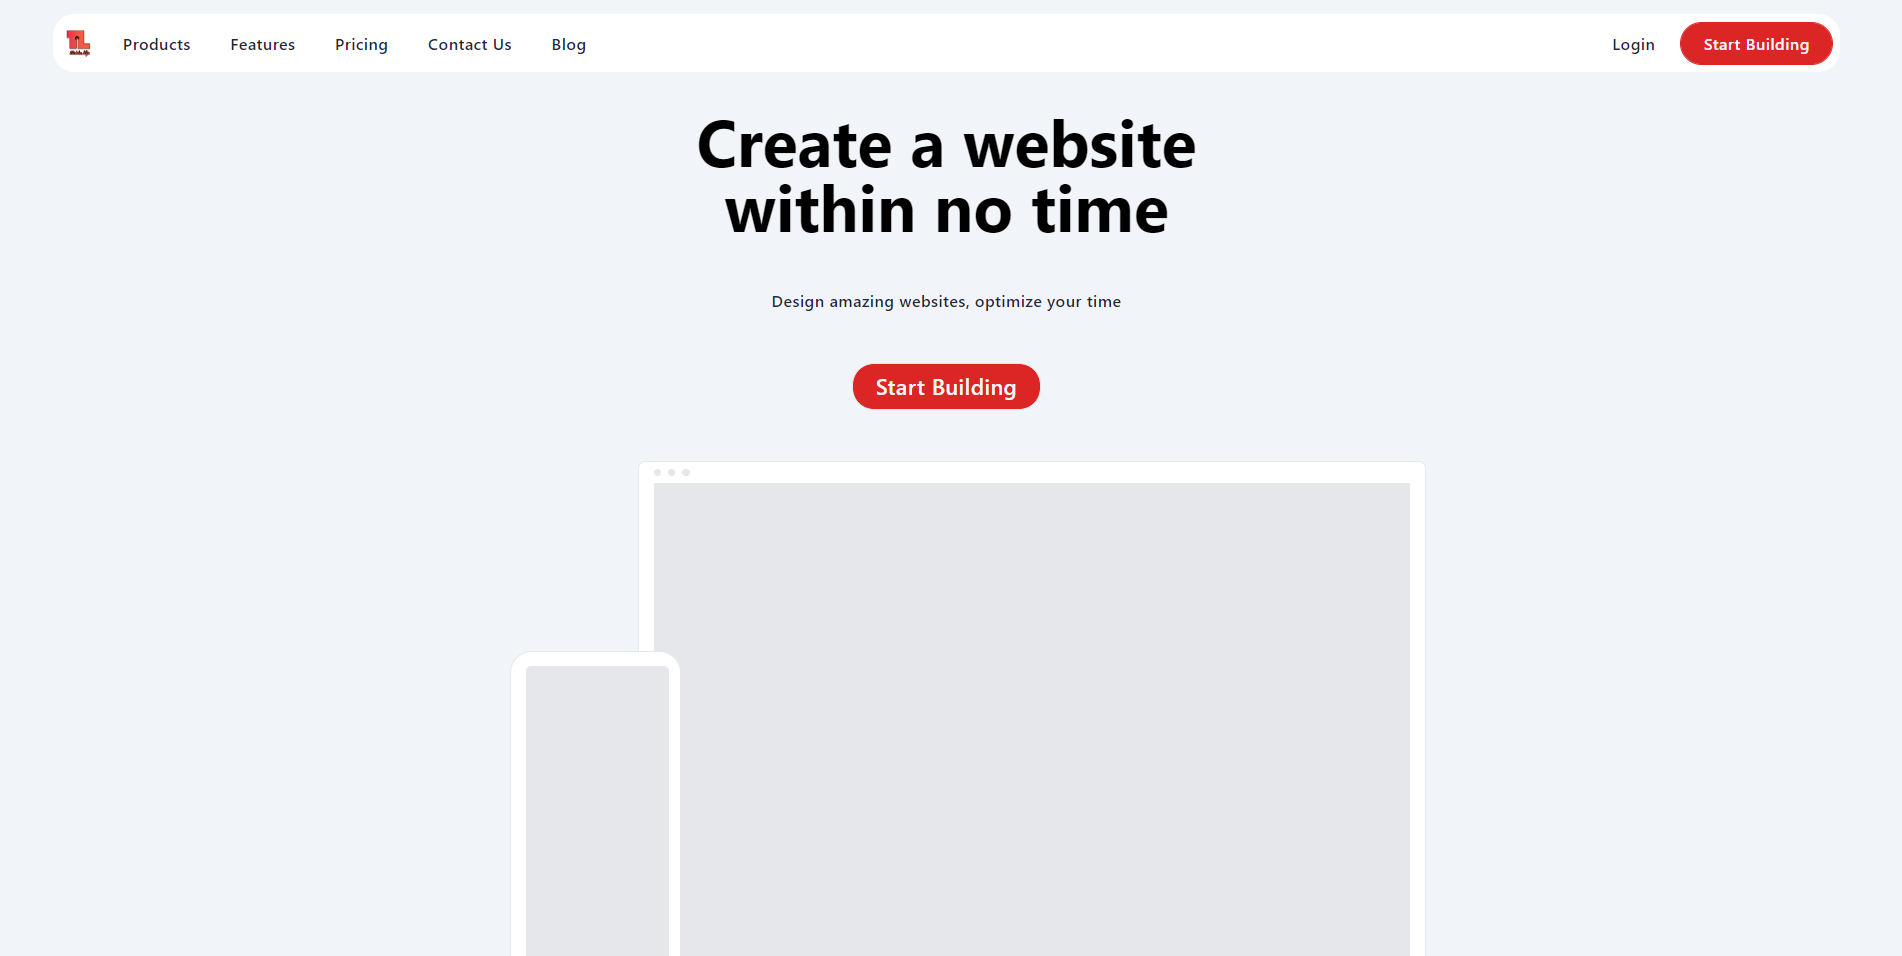
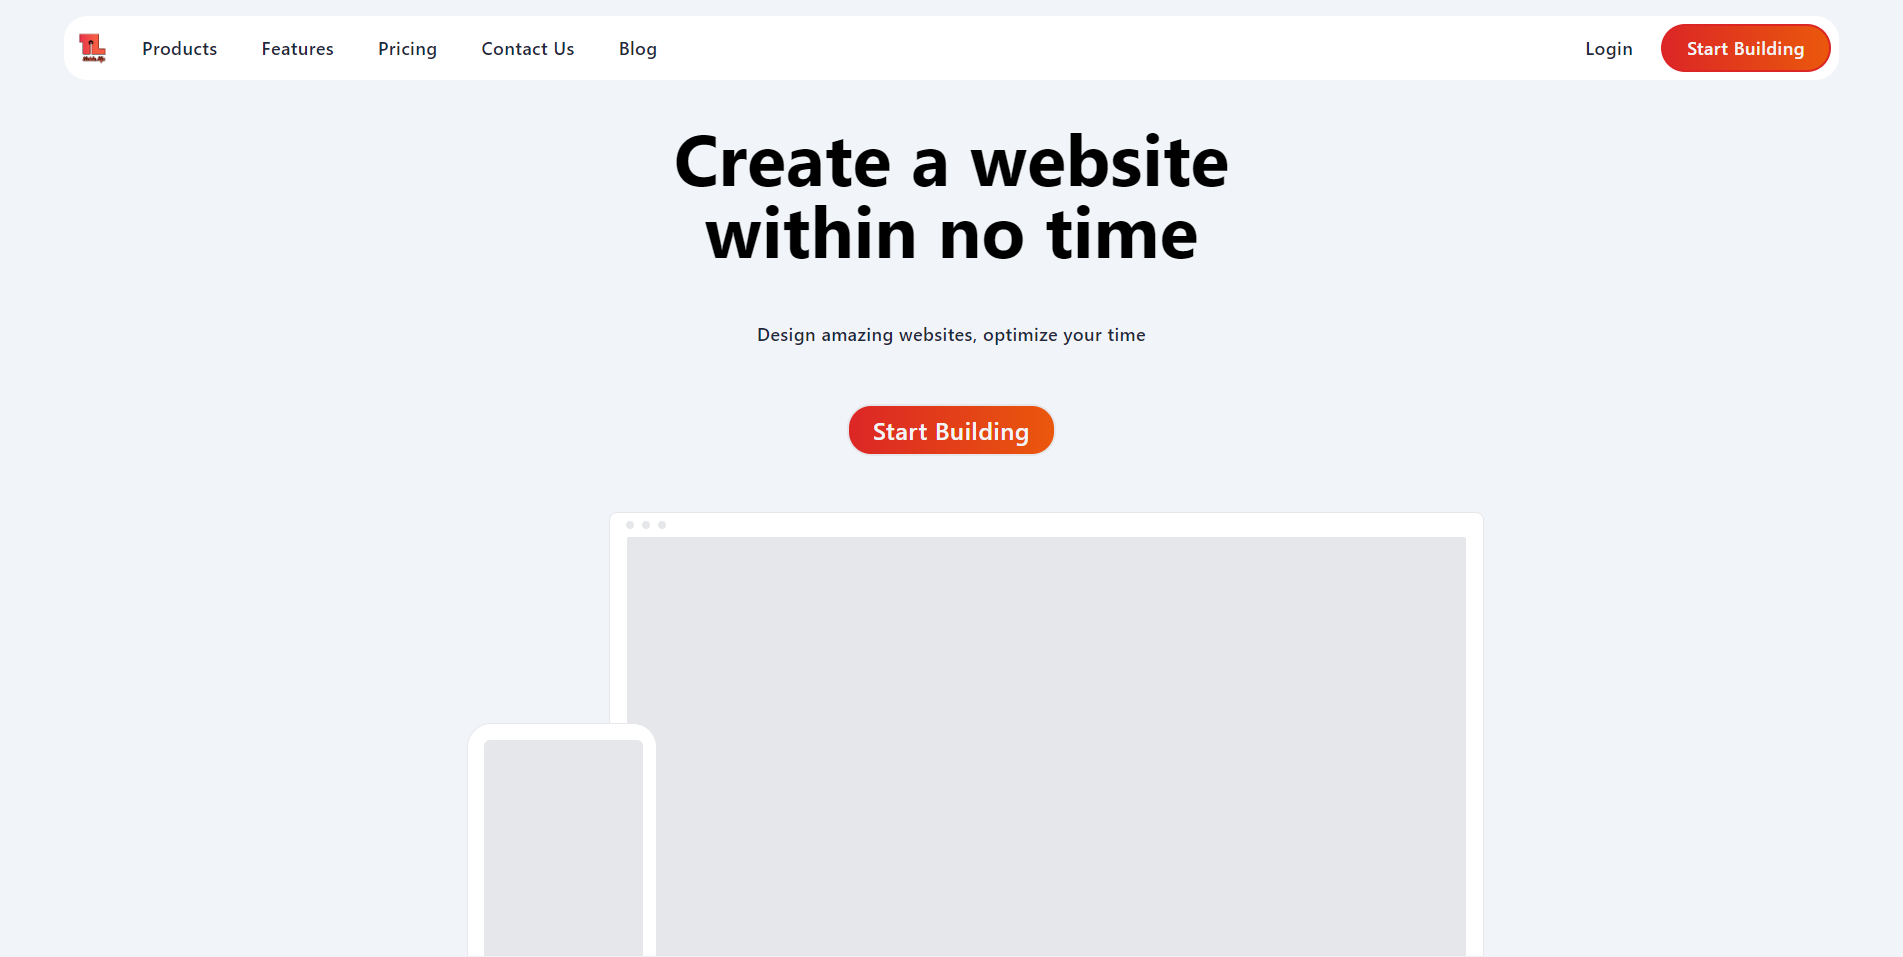
first project

diff --git a/src/App.jsx b/src/App.jsx
@@ -34,7 +34,7 @@ function App() {
           <li class="text-slate-800 tracking-wide font-semibold px-3 text-lg hover:text-red-500 hover:border-2 hover:border-gray-300 rounded-2xl cursor-pointer">
             Login
           </li>
-          <li class="bg-red-600 text-gray-100 tracking-wide text-lg font-semibold px-6 p-2 rounded-3xl cursor-pointer border-2 border-red-600 hover:bg-white hover:border-gray-200 hover:text-red-600">
+          <li class="bg-gradient-to-r from-red-600 to-orange-600 text-gray-100 tracking-wide text-lg font-semibold px-6 p-2 rounded-3xl cursor-pointer border-2 border-red-600 hover:from-white hover:to-gray-200 hover:border-gray-200 hover:text-red-600">
             Start Building
           </li>
         </ul>
@@ -46,7 +46,7 @@ function App() {
           Design amazing websites, optimize your time
         </p>
         <div class="flex justify-center">
-          <button class="bg-red-600 text-gray-100 tracking-wide text-2xl font-semibold px-6 p-2 rounded-3xl cursor-pointer border-2 hover:bg-white hover:border-gray-200 hover:text-red-600">
+          <button class="bg-gradient-to-r from-red-600 to-orange-600 text-gray-100 tracking-wide text-2xl font-semibold px-6 p-2 rounded-3xl cursor-pointer border-2 hover:from-white hover:to-gray-200 hover:border-gray-200 hover:text-red-600">
             Start Building
           </button>
         </div>
@@ -132,7 +132,7 @@ function App() {
           </div>
         </section>
         <div class="flex justify-center">
-          <button class="bg-red-600 text-gray-100 tracking-wide text-2xl font-semibold px-6 p-2 rounded-3xl cursor-pointer border-2 hover:bg-white hover:border-gray-200 hover:text-red-600">
+          <button class="bg-gradient-to-r from-red-600 to-orange-600 text-gray-100 tracking-wide text-2xl font-semibold px-6 p-2 rounded-3xl cursor-pointer border-2 hover:from-white hover:to-gray-200 hover:border-gray-200 hover:text-red-600">
             Start Building
           </button>
         </div>
@@ -206,7 +206,7 @@ function App() {
           </div>
         </section>
         <div class="flex justify-center">
-          <button class="bg-red-600 text-gray-100 tracking-wide text-sm font-extralight px-8 py-3 rounded-3xl cursor-pointer border-2 hover:bg-white hover:border-gray-200 hover:text-red-600">
+          <button class="bg-gradient-to-r from-red-600 to-orange-600 text-gray-100 tracking-wide text-sm font-extralight px-8 py-3 rounded-3xl cursor-pointer border-2 hover:from-white hover:to-gray-200 hover:border-gray-200 hover:text-red-600">
             EXPLORE TEMPLATES
           </button>
         </div>
@@ -321,7 +321,7 @@ function App() {
           </h2>
         </div>
         <div class="flex justify-center mt-2 pb-16">
-          <button class="bg-red-600 text-gray-100 tracking-wide text-2xl font-semibold px-6 p-3 rounded-3xl cursor-pointer border-2 border-black hover:bg-white hover:border-gray-200 hover:text-red-600">
+          <button class="bg-gradient-to-r from-red-600 to-orange-600 text-gray-100 tracking-wide text-2xl font-semibold px-6 p-3 rounded-3xl cursor-pointer border-2 border-black hover:from-white hover:to-gray-200 hover:border-gray-200 hover:text-red-600">
             Start Building
           </button>
         </div>
